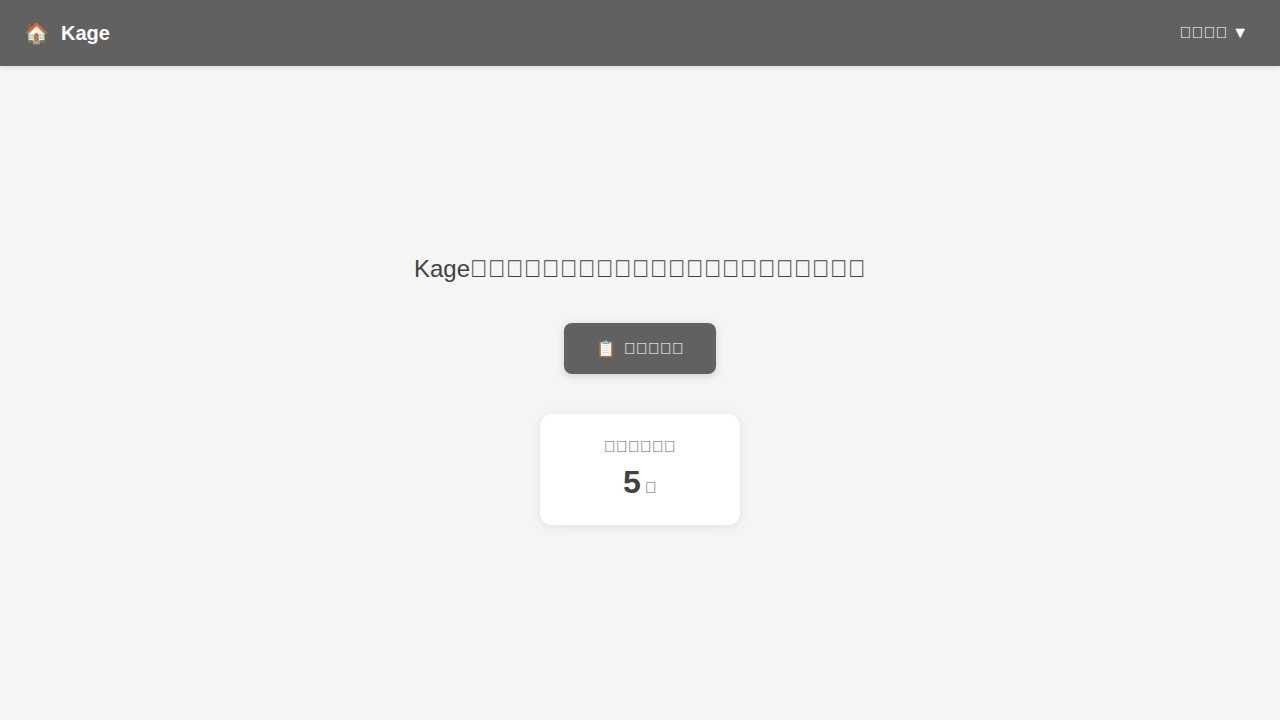
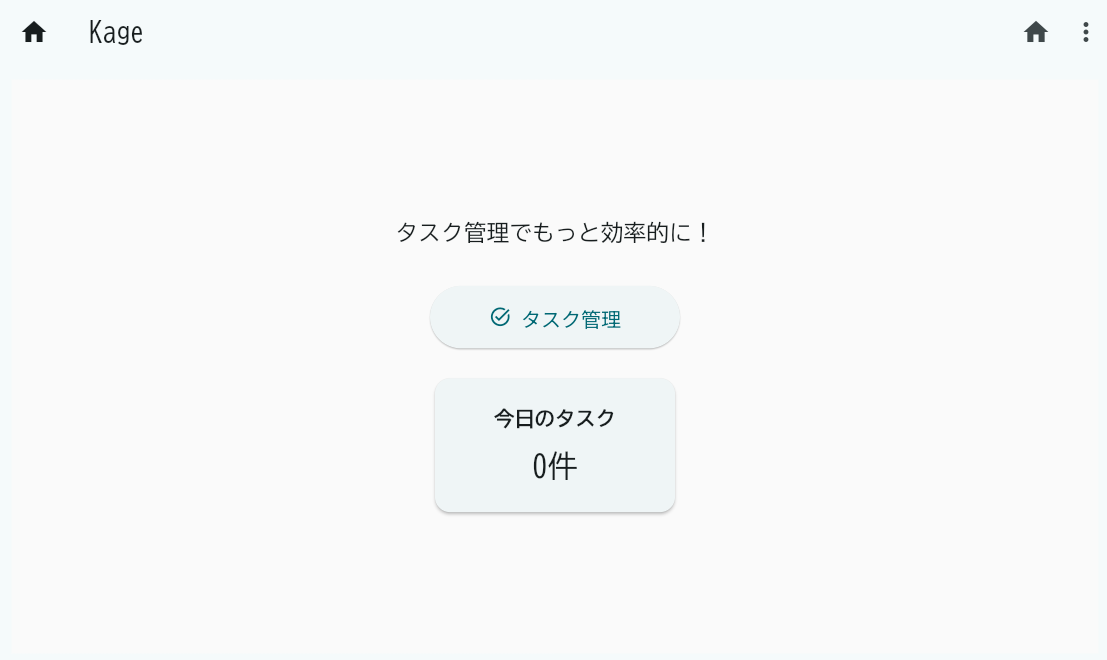
Refactor: 画像を実際の画面に置き換え

diff --git a/docs/app/ui.md b/docs/app/ui.md
@@ -32,7 +32,8 @@ Kage アプリケーションは以下の基本構成になっています：
 ホーム画面は、Kage アプリケーションの起点となる画面です。
 ユーザーがアプリケーションを起動すると最初に表示されます。
 
-**アクセス方法**: 
+**アクセス方法**:
+
 - アプリケーション起動時の初期画面
 - アプリケーションバーの「ホーム」ボタンをクリック
 - URL: `/`
@@ -40,9 +41,10 @@ Kage アプリケーションは以下の基本構成になっています：
 ### 画面構成
 
 ![ホーム画面のスクリーンショット](../images/home-screen.png)
-*ホーム画面：ウェルカムメッセージ、タスク管理ボタン、今日のタスク統計が表示される*
+_ホーム画面：ウェルカムメッセージ、タスク管理ボタン、今日のタスク統計が表示される_
 
 #### アプリケーションバー
+
 - **タイトル**: "Kage"
 - **ホームボタン**: 現在の画面（ホーム）に戻る
 - **メニューボタン**: ドロップダウンメニューでタスク画面への遷移
@@ -50,22 +52,24 @@ Kage アプリケーションは以下の基本構成になっています：
 #### メインコンテンツ
 
 1. **ウェルカムメッセージ**
+
    - テキスト: "タスク管理でもっと効率的に！"
    - 中央揃え、グレー系のテキストカラー
    - フォントサイズ: 18px
 
 2. **メインアクションボタン**
+
    - **タスク管理ボタン**
      - ラベル: "タスク管理"
      - アイコン: タスクアイコン（task_alt）
-     - サイズ: 幅200px、高さ50px
+     - サイズ: 幅 200px、高さ 50px
      - フォントサイズ: 16px
      - 機能: タスク管理画面（`/task`）への遷移
 
 3. **統計情報カード**
    - **今日のタスクカード**
      - タイトル: "今日のタスク"
-     - 件数表示: "X件" 形式
+     - 件数表示: "X 件" 形式
      - カードデザイン: 影付き、角丸
      - 幅: 200px
 
@@ -79,43 +83,49 @@ Kage アプリケーションは以下の基本構成になっています：
 ### 画面概要
 
 タスク管理画面は、GTD メソッドに基づいたタスク管理の中核機能を提供します。
-3つのセクション（クイックアクション、プロジェクト、タスクボード）で構成された縦型レイアウトです。
+3 つのセクション（クイックアクション、プロジェクト、タスクボード）で構成された縦型レイアウトです。
 
-**アクセス方法**: 
+**アクセス方法**:
+
 - ホーム画面の「タスク管理」ボタン
 - アプリケーションバーのメニューから選択
 - URL: `/task`
 
 ### 画面構成
 
-![タスク管理画面のスクリーンショット](../images/task-screen.png)
-*タスク管理画面：クイックアクション、プロジェクトプレースホルダー、タスクボードの3セクション構成*
+![タスク管理画面のスクリーンショット1](../images/task-screen-1.png)
+![タスク管理画面のスクリーンショット2](../images/task-screen-2.png)
+_タスク管理画面：クイックアクション、プロジェクトプレースホルダー、タスクボードの 3 セクション構成_
 
 #### アプリケーションバー
+
 - **タイトル**: "Kage - タスク管理"
 - **ホームボタン**: ホーム画面（`/`）への遷移
 - **メニューボタン**: ナビゲーションオプション
 
-#### セクション1: クイックアクション（QUICK-ACTION）
+#### セクション 1: クイックアクション（QUICK-ACTION）
 
-GTD の「2分ルール」と「タスクの性質分類」を支援するクイックアクションボタンが水平に配置されています。
+GTD の「2 分ルール」と「タスクの性質分類」を支援するクイックアクションボタンが水平に配置されています。
 
 ![クイックアクションセクション](../images/task-screen.png)
-*クイックアクション：GTDメソッドに基づく4つのアクションボタン（すぐにやる、次にやる、いつかやる、参考資料）*
+_クイックアクション：GTD メソッドに基づく 4 つのアクションボタン（すぐにやる、次にやる、いつかやる、参考資料）_
 
 **ボタン構成**:
 
 1. **すぐにやる** (DO_NOW)
+
    - アイコン: 追加アイコン（add_circle）
    - カラー: 赤（Red 500）
    - 機能: 緊急・重要なタスクの作成
 
 2. **次にやる** (DO_NEXT)
+
    - アイコン: スケジュールアイコン（schedule）
    - カラー: オレンジ（Orange 500）
    - 機能: Next Action として優先的に実行するタスクの作成
 
 3. **いつかやる** (DO_SOMEDAY)
+
    - アイコン: 時計アイコン（access_time）
    - カラー: 青（Blue 500）
    - 機能: Someday/Maybe リストのタスク作成
@@ -126,19 +136,21 @@ GTD の「2分ルール」と「タスクの性質分類」を支援するクイ
    - 機能: 参考資料・情報として保存するアイテムの作成
 
 **デザイン特徴**:
+
 - 白背景のコンテナ
 - 角丸（12px）
 - 影効果（BoxShadow）
 - 内側パディング: 16px
 
-#### セクション2: プロジェクト（PROJECTS）
+#### セクション 2: プロジェクト（PROJECTS）
 
 現在開発中の機能で、将来的にプロジェクト管理機能を提供予定です。
 
 ![プロジェクトセクション](../images/task-screen.png)
-*プロジェクトセクション：開発中機能のプレースホルダー表示*
+_プロジェクトセクション：開発中機能のプレースホルダー表示_
 
 **現在の表示内容**:
+
 - **ヘッダー**: "PROJECTS" + フォルダアイコン
 - **プレースホルダーメッセージ**:
   - 建設アイコン（construction）
@@ -146,27 +158,31 @@ GTD の「2分ルール」と「タスクの性質分類」を支援するクイ
   - "近日中にリリース予定です。タスクの整理やグループ化機能を提供します。"
 
 **デザイン特徴**:
+
 - グレー背景のプレースホルダーエリア
 - 中央寄せレイアウト
 - 角丸、影効果
 
-#### セクション3: タスクボード（TASKS）
+#### セクション 3: タスクボード（TASKS）
 
-GTD のタスクステータスに基づいた2カラムのタスクボードです。
+GTD のタスクステータスに基づいた 2 カラムのタスクボードです。
 
 ![タスクボード](../images/task-screen.png)
-*タスクボード：CLOSED（完了済み）とINBOX（未処理）の2カラム構成でタスクを管理*
+_タスクボード：CLOSED（完了済み）と INBOX（未処理）の 2 カラム構成でタスクを管理_
 
 **レイアウト構成**:
+
 - **左カラム**: CLOSED（完了済みタスク）
 - **右カラム**: INBOX（未処理タスク）
 
 **タスクカードの機能**:
+
 - **表示項目**: タスクタイトル、説明、ステータス、作成日時
 - **操作**: クリックで編集、ステータス変更、削除
 - **色分け**: ステータスによる視覚的分類
 
 **サポートするタスクステータス**:
+
 - `INBOX`: オレンジ - 未処理・要分類
 - `NEXT_ACTION`: 緑 - 次にやるべきアクション
 - `WAITING`: 黄 - 他者の回答待ち
@@ -177,17 +193,20 @@ GTD のタスクステータスに基づいた2カラムのタスクボードで
 ### 操作方法
 
 #### タスクの作成
+
 1. クイックアクションボタンをクリック
 2. タスク作成ダイアログが表示
 3. タイトル、説明などを入力
 4. 保存でタスクが作成され、適切なステータスで分類
 
 #### タスクの編集・管理
+
 1. タスクボード内のタスクカードをクリック
 2. タスク編集ダイアログが表示
 3. 情報の編集、ステータス変更、削除が可能
 
 #### ナビゲーション
+
 - アプリケーションバーのホームボタンでホーム画面に戻る
 - メニューからその他の機能にアクセス（今後追加予定）
 
@@ -198,15 +217,17 @@ GTD のタスクステータスに基づいた2カラムのタスクボードで
 タスクの作成や編集を行うためのモーダルダイアログです。
 
 ![タスクダイアログ](../images/task-dialog.png)
-*タスク作成・編集ダイアログ：タイトル、説明、ステータス選択、作成日時表示と操作ボタン*
+_タスク作成・編集ダイアログ：タイトル、説明、ステータス選択、作成日時表示と操作ボタン_
 
 **入力フィールド**:
-- **タスクタイトル**: 必須、最大100文字
+
+- **タスクタイトル**: 必須、最大 100 文字
 - **説明**: 任意、複数行対応
 - **ステータス**: ドロップダウンで選択
 - **作成日時**: 自動設定
 
 **ボタン**:
+
 - **保存**: タスクの作成・更新
 - **キャンセル**: ダイアログを閉じる
 - **削除**: 編集時のみ表示
@@ -216,6 +237,7 @@ GTD のタスクステータスに基づいた2カラムのタスクボードで
 タスク削除時の確認ダイアログです。
 
 **表示内容**:
+
 - タイトル: "タスク削除の確認"
 - メッセージ: "「[タスク名]」を削除しますか？この操作は元に戻せません。"
 - ボタン: "削除"（確認）、"キャンセル"
@@ -258,16 +280,19 @@ GTD のタスクステータスに基づいた2カラムのタスクボードで
 ### 近日中の追加機能
 
 1. **プロジェクト管理機能**
+
    - タスクのグループ化
    - プロジェクト階層表示
    - プロジェクトベースのフィルタリング
 
 2. **検索・フィルタリング機能**
+
    - タスクタイトル・説明での検索
    - ステータス、日付でのフィルタリング
    - タグ機能
 
 3. **ドラッグ&ドロップ**
+
    - タスクボード間でのタスク移動
    - 直感的なステータス変更
 
@@ -278,10 +303,12 @@ GTD のタスクステータスに基づいた2カラムのタスクボードで
 ### 長期的な改善
 
 1. **AI アシスタント機能**
+
    - タスクの自動分類・提案
    - コンテキストベースのレコメンデーション
 
 2. **詳細な GTD ワークフロー**
+
    - 週次レビュー機能
    - Inbox Review の支援
    - Context（@PC、@外出先など）管理
@@ -303,7 +330,7 @@ GTD のタスクステータスに基づいた2カラムのタスクボードで
 
 ### ファイル構成
 
-主要なUI関連ファイル：
+主要な UI 関連ファイル：
 
 ```
 src/views/
